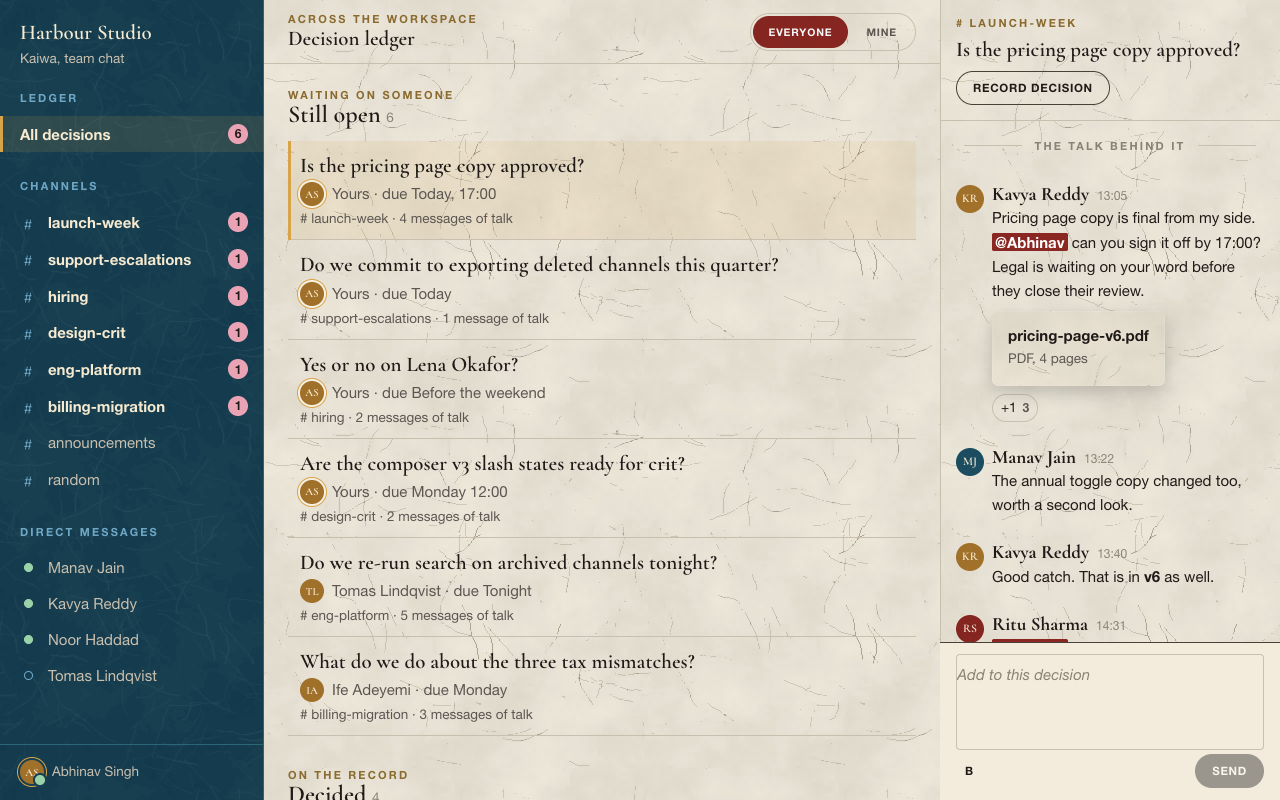
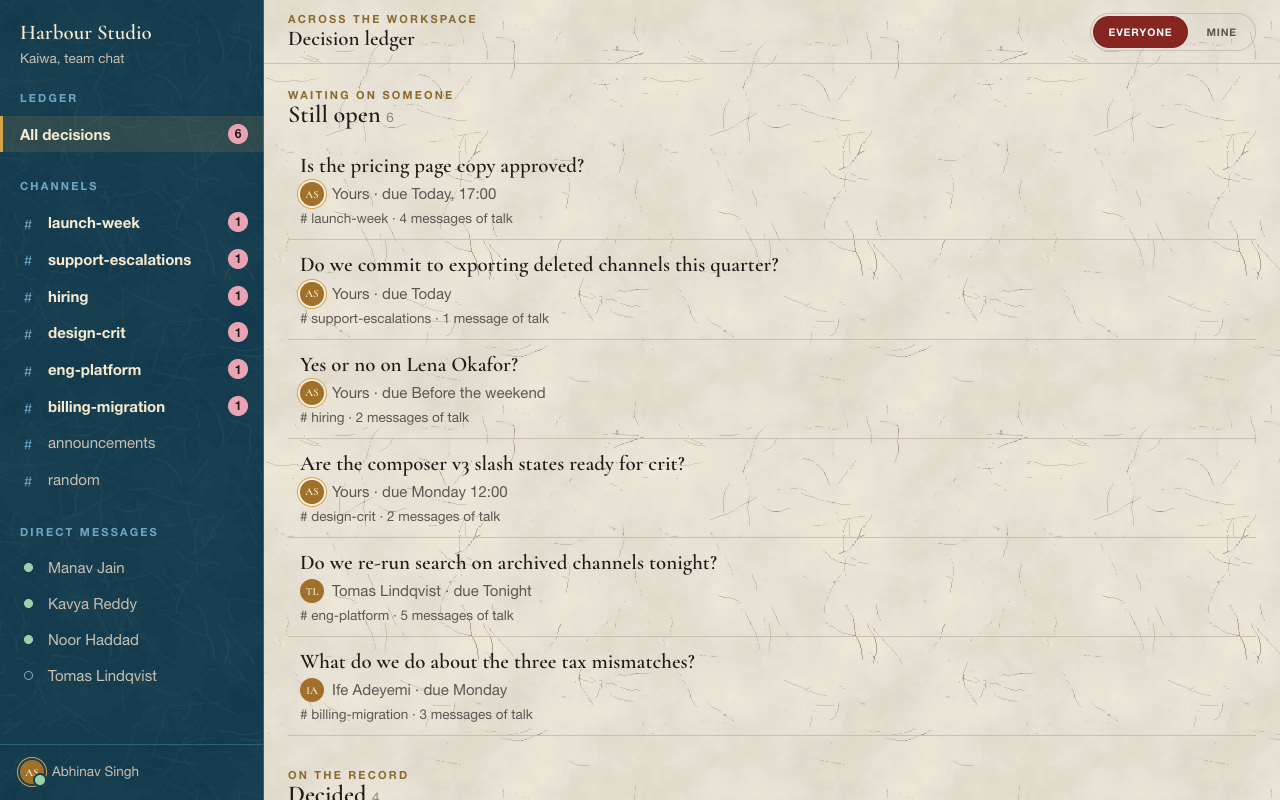
Chat 03: decision ledger, talk opens only after a click

diff --git a/products/chat/03-decision-ledger/main.tsx b/products/chat/03-decision-ledger/main.tsx
@@ -26,7 +26,7 @@ function Ledger() {
   const [decs, setDecs] = useState(START);
   const [where, setWhere] = useState('all');
   const [who, setWho] = useState<'all' | 'mine'>('all');
-  const [sel, setSel] = useState('d1');
+  const [sel, setSel] = useState<string | null>(null);
   const [sheet, setSheet] = useState(false);
   const [recording, setRecording] = useState(false);
   const [answer, setAnswer] = useState('');
@@ -37,7 +37,7 @@ function Ledger() {
   const closeRec = useCallback(() => setRecording(false), []);
   const shown = decs.filter((d) => (where === 'all' || d.conv === where) && (who === 'all' || d.owner === ME));
   const open = shown.filter((d) => !d.answer), done = shown.filter((d) => d.answer);
-  const d = decs.find((x) => x.id === sel)!;
+  const d = decs.find((x) => x.id === sel);
   const pick = (id: string) => { setSel(id); if (narrow) setSheet(true); };
   const record = () => {
     if (!answer.trim()) return;
@@ -54,10 +54,10 @@ function Ledger() {
       </button>
     </li>
   );
-  const talk = (
+  const talk = d && (
     <div className="xch03-talk">
       <div className="xch03-talk__head">
-        <p className="ds-kicker">{title(conv(d.conv))}</p>
+        <div className="xch03-talk__top"><p className="ds-kicker">{title(conv(d.conv))}</p><Button variant="ghost" size="sm" onClick={() => setSel(null)}>Close</Button></div>
         <h2 className="ds-h4">{d.q}</h2>
         {d.answer ? <p className="xch03-talk__a"><Tag variant="selected">Decided</Tag> {d.answer}</p> : <Button variant="secondary" size="sm" onClick={() => setRecording(true)}>Record decision</Button>}
       </div>
@@ -65,7 +65,7 @@ function Ledger() {
         <StreamDivider>The talk behind it</StreamDivider>
         <Talk list={[rootOf(d), ...(rootOf(d).replies ?? []), ...(extra[d.root] ?? [])]} />
       </div>
-      <Composer placeholder="Add to this decision" primary={narrow || true} onSend={(t) => setExtra((x) => ({ ...x, [d.root]: [...(x[d.root] ?? []), mine(t)] }))} />
+      <Composer placeholder="Add to this decision" primary={narrow || true} onSend={(t, f) => setExtra((x) => ({ ...x, [d.root]: [...(x[d.root] ?? []), mine(t, f)] }))} />
     </div>
   );
   const opens = (id: string) => decs.filter((x) => x.conv === id && !x.answer).length;
@@ -74,16 +74,16 @@ function Ledger() {
       <AppShell
         sidebar={<ChatRail current={where} onPick={setWhere} counts={(c) => opens(c.id)} top={<RailSection title="Ledger"><RailItem label="All decisions" current={where === 'all'} count={decs.filter((x) => !x.answer).length} unread onClick={() => setWhere('all')} /></RailSection>} />}
         header={<><div><p className="ds-kicker">{where === 'all' ? 'Across the workspace' : conv(where).topic}</p><h1 className="ds-h4">{where === 'all' ? 'Decision ledger' : title(conv(where))}</h1></div><span className="ds-spacer" /><Segmented label="Owner" value={who} onChange={setWho} options={[{ value: 'all', label: 'Everyone' }, { value: 'mine', label: 'Mine' }]} /></>}
-        aside={narrow ? undefined : talk}>
+        aside={narrow || !d ? undefined : talk}>
         <div className="xch03-main">
           {shown.length === 0 && <EmptyState title="Nothing decided here yet" body="Decisions land here when someone records one." action={<Button variant="secondary" size="sm" onClick={() => { setWhere('all'); setWho('all'); }}>Show all decisions</Button>} />}
           {open.length > 0 && <section><p className="ds-kicker">Waiting on someone</p><h2 className="ds-h3">Still open <span className="xch03-n">{open.length}</span></h2><ul className="xch03-list">{open.map(row)}</ul></section>}
           {done.length > 0 && <section><p className="ds-kicker">On the record</p><h2 className="ds-h3">Decided <span className="xch03-n">{done.length}</span></h2><ul className="xch03-list">{done.map(row)}</ul></section>}
         </div>
       </AppShell>
-      {narrow && <Modal open={sheet} onClose={closeSheet} variant="sheet" title="The decision">{talk}</Modal>}
+      {narrow && d && <Modal open={sheet} onClose={closeSheet} variant="sheet" title="The decision">{talk}</Modal>}
       <Modal open={recording} onClose={closeRec} title="Record the decision" actions={<><Button variant="ghost" onClick={closeRec}>Cancel</Button><Button variant="primary" disabled={!answer.trim()} onClick={record}>Save</Button></>}>
-        <p className="ds-caption">{d.q}</p>
+        <p className="ds-caption">{d?.q}</p>
         <Input compact multiline rows={3} label="What was decided" value={answer} onChange={(e) => setAnswer(e.target.value)} />
       </Modal>
       {toast && <Toast onDone={clear} action={toast.undo && <Button variant="ghost" size="sm" onClick={toast.undo}>Undo</Button>}>{toast.t}</Toast>}

diff --git a/products/chat/03-decision-ledger/styles.css b/products/chat/03-decision-ledger/styles.css
@@ -15,3 +15,4 @@
 .xch03-root .ds-sheet .ds-modal__head { padding: var(--space-4) var(--space-4) 0; flex: none; }
 .xch03-root .ds-sheet .xck-composer { margin: 0; }
 @media (max-width: 760px) { .xch03-main { padding: var(--space-4); } }
+.xch03-talk__top { display: flex; align-items: center; justify-content: space-between; width: 100%; }

diff --git a/products/chat/03-decision-ledger/README.md b/products/chat/03-decision-ledger/README.md
@@ -8,7 +8,7 @@
 
 **Mode:** VARIANT of the team chat archetype. One axis changed: the main object is a decision, not a message.
 
-**Shape:** AppShell with a channel rail, Paper ledger of open and decided questions, talk and composer in the aside or a sheet.
+**Shape:** AppShell with a channel rail, Paper ledger of open and decided questions, and the talk, composer and attachments open in the aside or a sheet only after you click a decision.
 
 ## Anatomy
 
